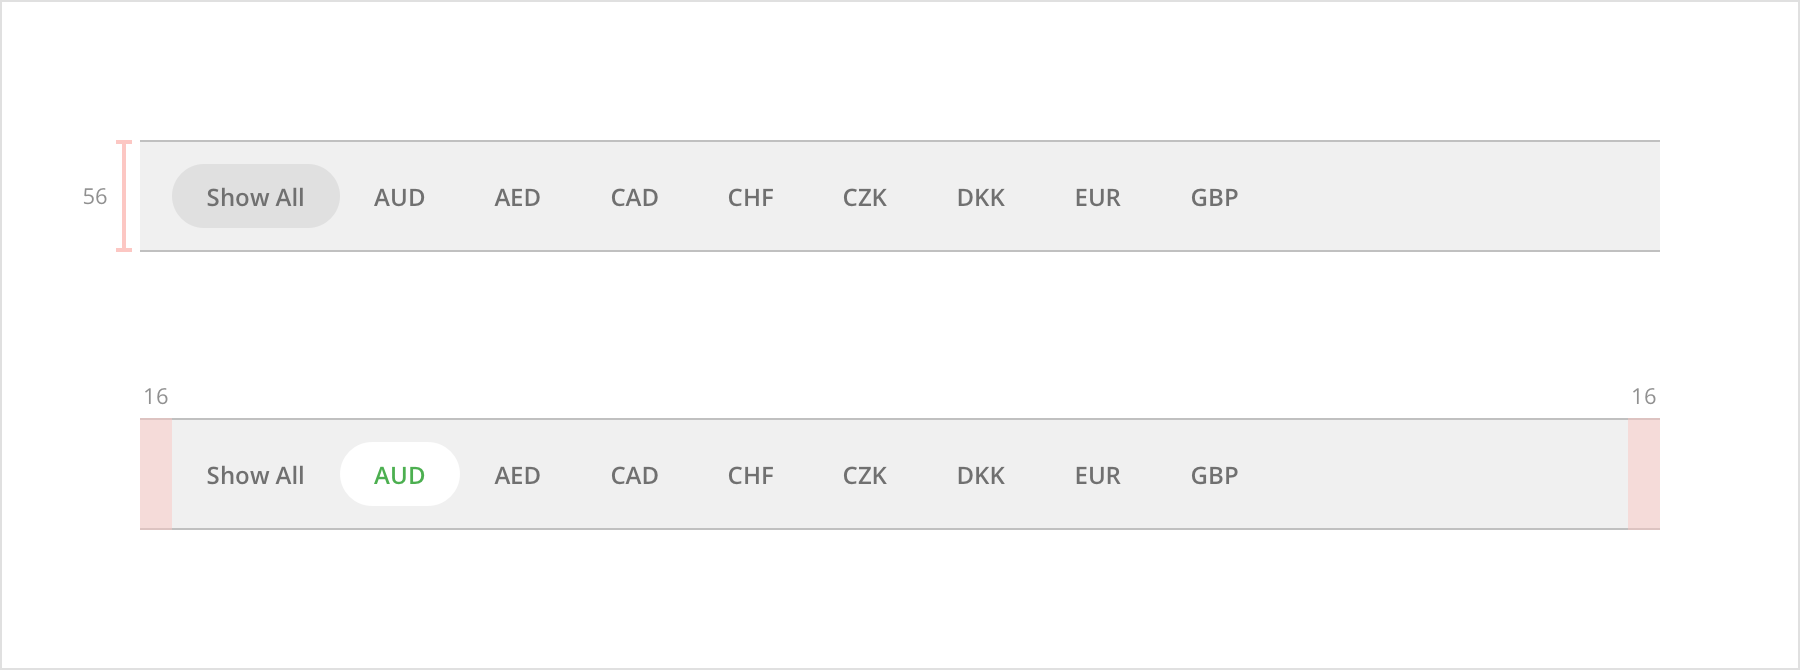
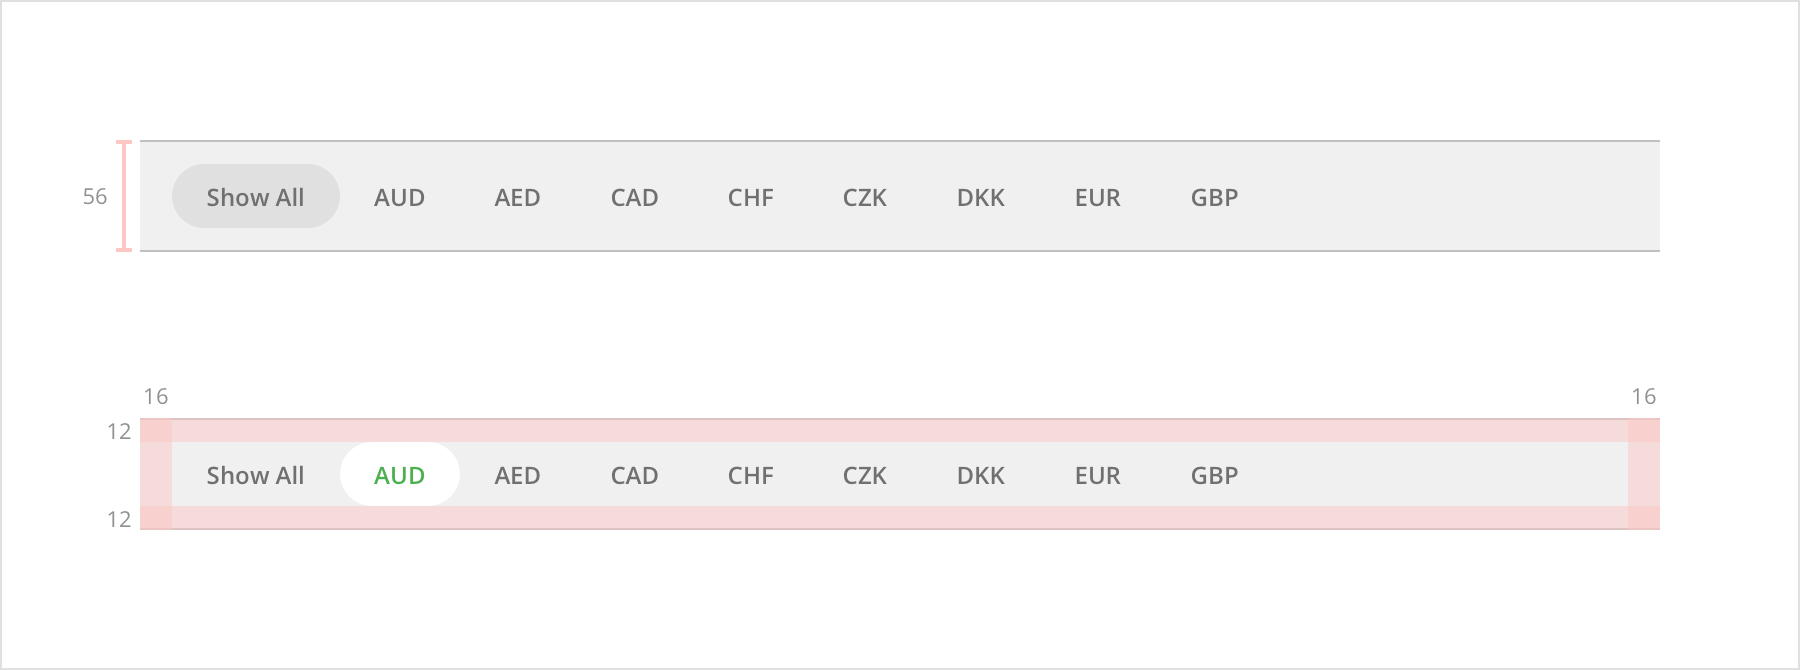
Updates assets/organisms/tab-navigations-secondary-items.png
Auto commit by GitBook Editor

diff --git a/tab-navigations.md b/tab-navigations.md
@@ -80,10 +80,10 @@ color: $B200;
 /* Primary item text / on-hover */
 color: $S500;
 
-/* Primary item text / on-hover */
+/* Primary item text / on-focus */
 color: $B100;
 
-/* Primary item text / on-hover */
+/* Primary item text / active */
 color: $G300;
 ```
 
@@ -95,7 +95,6 @@ The secondary tab navigation is data-driven, therefore the admin or users need t
 
 #### General guidelines {#spacing-guidelines}
 
-* Only first letter of the tab label should be capitalized.
 * When number of tab items exceed the width of the content wrapper use [Nav arrows](/atoms/nav-arrows.md).
 * When switching between secondary tab items only the data below should be changed, no new page should be opened.
 
@@ -107,9 +106,9 @@ The secondary tab navigation is data-driven, therefore the admin or users need t
 ![](/assets/organisms/tab-navigations-secondary-sizing.png)
 
 ```
-/* Secondary base */
+/* Secondary section */
 height: 56px;
-padding: 0 32px 0 32px;
+padding: 12px 16px 12px 16px;
 background-color: $S200;
 border-top: 1px solid $S500;
 border-bottom: 1px solid $S500;
@@ -144,32 +143,42 @@ background-image: linear-gradient(-90deg, $S100 0%, $S200 75%);
 
 ##### Elements
 
+* Display "Show All" tab item in cases when there is a need to show all items combined
+
 ![](/assets/organisms/tab-navigations-secondary-items.png)
 
 ```
-/* Secondary item base */
+/* Secondary item base / default, on-hover, on-focus */
 width: auto;
 height: 32px;
-padding: 16px;
-border-right: 2px solid $S400;
+padding: 8px 16px 8px 16px;
 background-color: $S200; 
 
-/* Primary item text / default */
+/* Secondary item text / default, show-all */
 line-height: 16px;
 font-family: OpenSans;
-font-size: 13px;
+font-size: 12px;
 font-weight: Semibold:
 text-align: center;
 color: $B200;
 
-/* Primary item text / on-hover */
+/* Secondary item text / on-hover */
 color: $S500;
 
-/* Primary item text / on-hover */
+/* Secondary item text / on-focus */
 color: $B100;
 
-/* Primary item text / on-hover */
+/* Secondary item base / active */
+background-color: $S100;
+
+/* secondary item text / active */
 color: $G300;
+
+/* Secondary item base / active */
+background-color: $S100;
+
+/* Secondary item base / show-all */
+color: $S300;
 ```
 
 
